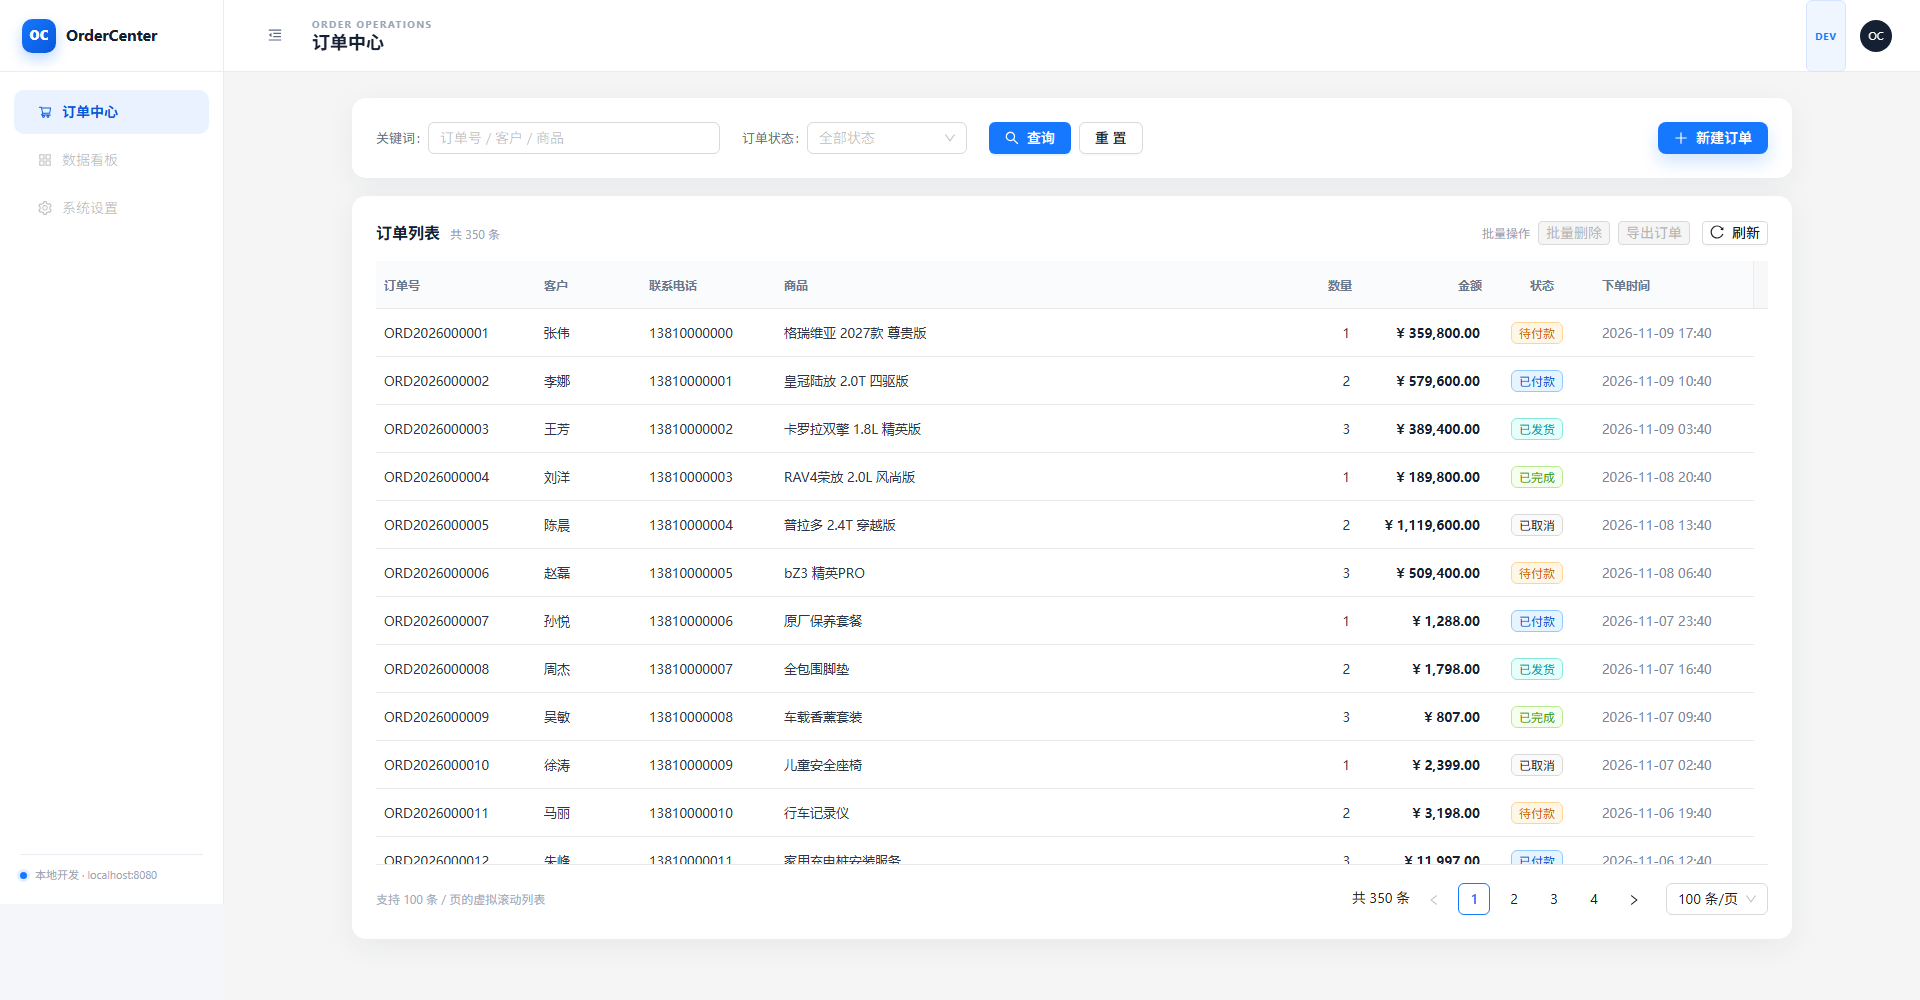
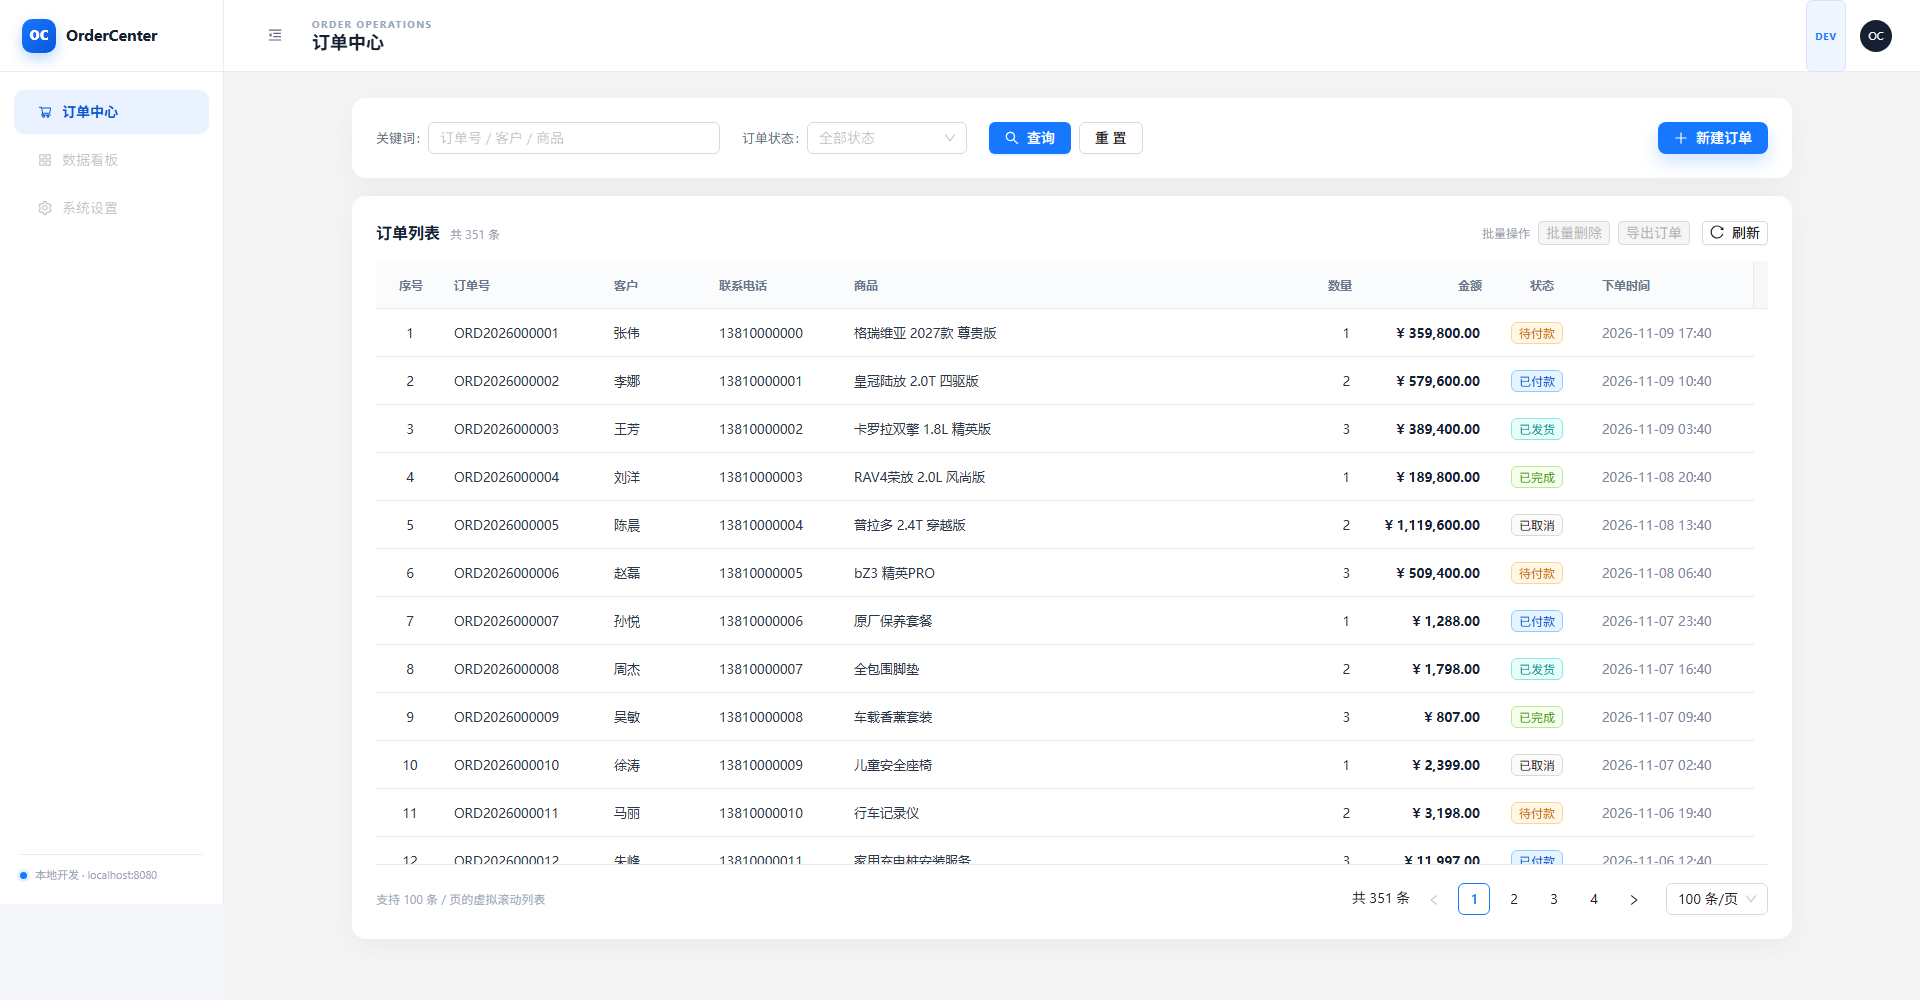
增加序号，列表查询接口改为api/queryOrderList

diff --git a/frontend/src/components/business/BusinessTable.vue b/frontend/src/components/business/BusinessTable.vue
@@ -84,7 +84,9 @@ const props = defineProps<{
 }>()
 
 const orderStore = useOrderStore()
-const rows = ref<Order[]>([])
+type OrderRow = Order & { serial: number }
+
+const rows = ref<OrderRow[]>([])
 const loading = ref(false)
 const errorMessage = ref('')
 const tableHeight = ref(520)
@@ -106,6 +108,7 @@ onBeforeUnmount(() => {
 })
 
 const columns: BaseTableColumn[] = [
+  { key: 'serial', field: 'serial', title: '序号', width: 70, align: 'center' },
   { key: 'orderNo', field: 'orderNo', title: '订单号', width: 160 },
   { key: 'customerName', field: 'customerName', title: '客户', width: 105 },
   { key: 'customerPhone', field: 'customerPhone', title: '联系电话', width: 135 },
@@ -134,7 +137,10 @@ async function loadOrders() {
     })
 
     if (seq !== requestSeq) return
-    rows.value = result.records
+    rows.value = result.records.map((order, index) => ({
+      ...order,
+      serial: (result.page - 1) * result.size + index + 1,
+    }))
     orderStore.setTotal(result.total)
   } catch (error) {
     if (seq !== requestSeq) return

diff --git a/frontend/src/api/order.ts b/frontend/src/api/order.ts
@@ -6,7 +6,7 @@ import http, { unwrap } from './http'
  * 业务组件不直接依赖具体 API，方便测试与复用。
  */
 export function getOrderList(params: OrderQuery): Promise<PageResult<Order>> {
-  return unwrap<PageResult<Order>>(http.get('/orders', { params }))
+  return unwrap<PageResult<Order>>(http.get('/queryOrderList', { params }))
 }
 
 export function getHealth(): Promise<Record<string, unknown>> {

diff --git a/backend/src/main/java/com/ordercenter/exception/GlobalExceptionHandler.java b/backend/src/main/java/com/ordercenter/exception/GlobalExceptionHandler.java
@@ -9,6 +9,7 @@ import org.springframework.web.bind.MethodArgumentNotValidException;
 import org.springframework.web.bind.annotation.ExceptionHandler;
 import org.springframework.web.bind.annotation.RestControllerAdvice;
 import org.springframework.web.method.annotation.MethodArgumentTypeMismatchException;
+import org.springframework.web.servlet.resource.NoResourceFoundException;
 
 @RestControllerAdvice
 public class GlobalExceptionHandler {
@@ -30,6 +31,12 @@ public class GlobalExceptionHandler {
                 .map(error -> error.getDefaultMessage() == null ? "参数校验失败" : error.getDefaultMessage())
                 .orElse("参数校验失败");
         return ResponseEntity.badRequest().body(ApiResponse.fail(400, message));
+    }
+
+    @ExceptionHandler(NoResourceFoundException.class)
+    public ResponseEntity<ApiResponse<Void>> handleNotFound(NoResourceFoundException exception) {
+        return ResponseEntity.status(HttpStatus.NOT_FOUND)
+                .body(ApiResponse.fail(404, "接口不存在"));
     }
 
     @ExceptionHandler(Exception.class)

diff --git a/backend/src/main/java/com/ordercenter/order/OrderController.java b/backend/src/main/java/com/ordercenter/order/OrderController.java
@@ -36,7 +36,7 @@ public class OrderController {
     }
 
     @Operation(summary = "分页查询订单")
-    @GetMapping("/orders")
+    @GetMapping("/queryOrderList")
     public ApiResponse<PageResult<OrderResponse>> page(
             @Parameter(description = "页码，从 1 开始")
             @RequestParam(defaultValue = "1") int page,

diff --git a/README.md b/README.md
@@ -137,7 +137,7 @@ cd backend
 
 - 健康检查：http://localhost:8080/api/health
 - Swagger UI：http://localhost:8080/swagger-ui.html
-- 订单接口：http://localhost:8080/api/orders?page=1&size=20
+- 订单接口：http://localhost:8080/api/queryOrderList?page=1&size=20
 
 示例响应：
 
@@ -209,7 +209,7 @@ docker compose -f docker-compose.dev.yml down -v
 | 方法 | 路径 | 说明 |
 |---|---|---|
 | GET | `/api/health` | 健康检查 |
-| GET | `/api/orders?page=1&size=100&keyword=&status=` | 订单分页查询 |
+| GET | `/api/queryOrderList?page=1&size=100&keyword=&status=` | 订单分页查询 |
 
 `page` 从 1 开始，`size` 最大 200。`status` 可选值：
 
@@ -232,6 +232,6 @@ docker compose -f docker-compose.dev.yml down -v
 ## 调试建议
 
 - 后端启动失败时，先看终端异常；权限、数据库连接、Flyway SQL 是高频问题。
-- 前端 404 / 500：打开浏览器 Network 面板确认 `/api/orders` 的响应。
+- 前端 404 / 500：打开浏览器 Network 面板确认 `/api/queryOrderList` 的响应。
 - 表格没有数据：先直接访问后端接口，确认返回 `records` 是否有值。
 - 本地数据库状态异常：`docker compose -f docker-compose.dev.yml down -v` 清空后重启，Flyway 会重跑。
